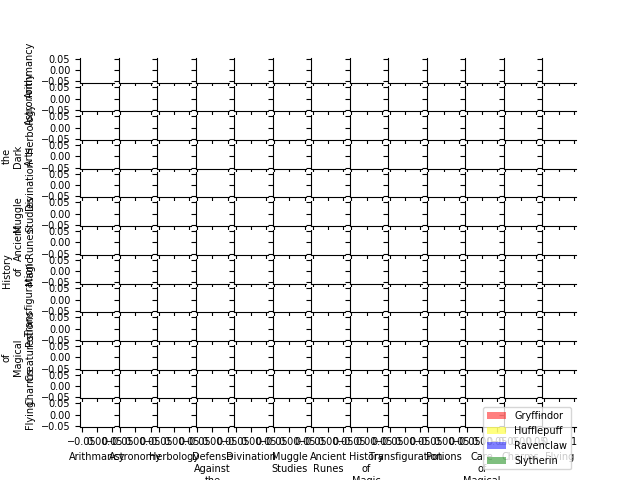
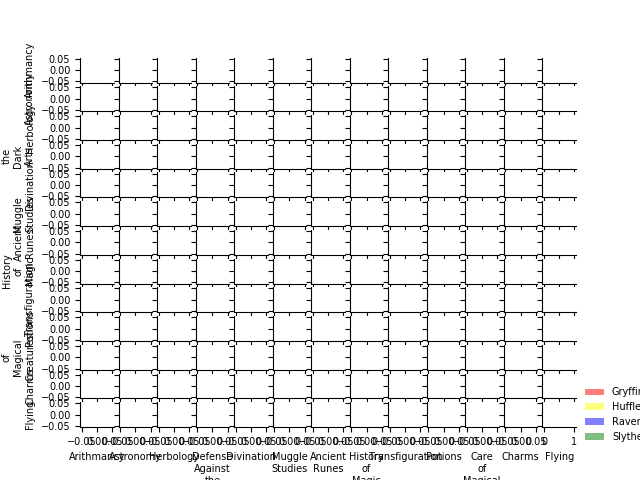
Testing the workflow of pair_plot module

Changed region(s): [[0.75, 0.8125, 1.0, 0.9688]]

diff --git a/DSLR/utils.py b/DSLR/utils.py
@@ -79,7 +79,7 @@ def     scatter_plot(args, ax=None, xcol=6, ycol=8):
         if not ax:
             plt.scatter(x, y, color=args['color'][i], alpha=0.5)
         else:
-            ax.scatter(x, y, color=args['color'][i], alpha=0.5)
+            ax.scatter(x, y, color=args['color'][i], s=args['s'], alpha=0.5)
     
     if not ax:
         plt.legend(args['legend'], loc='upper right')
@@ -110,9 +110,9 @@ def     pair_plot(args):
         for col in range(size):
             
             if col == row:
-               histogram(args, ax[row, col], col)
+                histogram(args, ax[row, col], col)
             else:
-                scatter_plot(args, ax[row, col], row, col)
+                scatter_plot(args, ax[row, col], col, row)
             
             if ax[row, col].is_last_row():
                 ax[row, col].set_xlabel(args['features'][col].replace(' ', '\n'))
@@ -127,7 +127,7 @@ def     pair_plot(args):
             ax[row, col].spines['right'].set_visible(False)
             ax[row, col].spines['top'].set_visible(False)
 
-    plt.legend(args['legend'])
+    plt.legend(args['legend'], loc='center left', frameon=False, bbox_to_anchor=(1, 0.5))
     plt.show()
     if args['-img']:
         plt.savefig('pair_plot.png')

diff --git a/pair_plot.py b/pair_plot.py
@@ -16,5 +16,6 @@ if __name__ == '__main__':
     args['title'] = 'Scatter plot'
     args['color'] = ['red', 'yellow', 'blue', 'green']
     args['font'] = {'family' : 'DejaVu Sans', 'weight' : 'light', 'size' : 7}
+    args['s'] = 1
 
     pair_plot(args)
